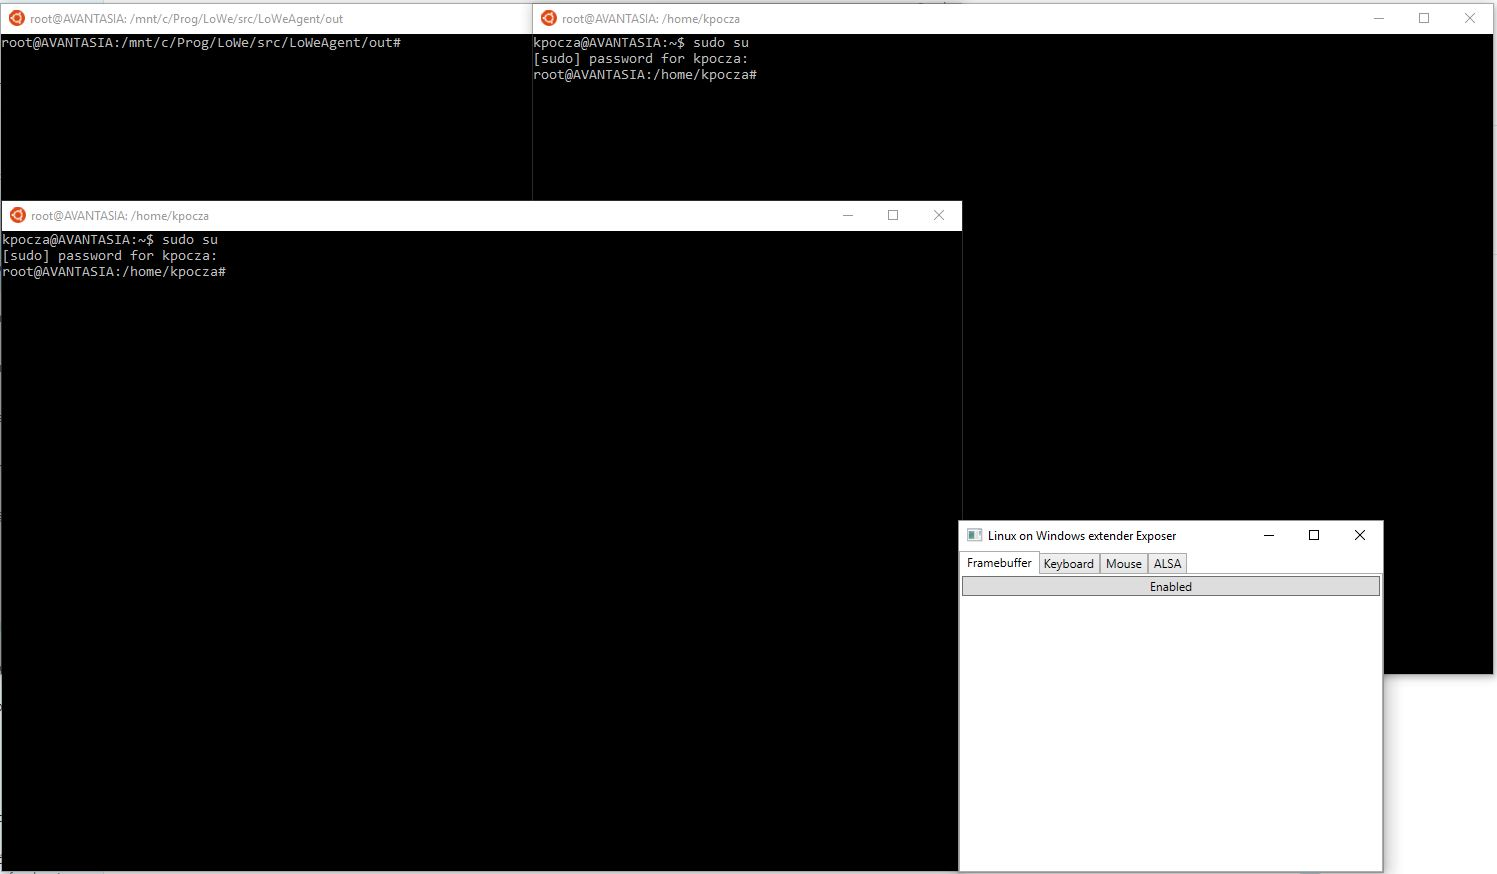
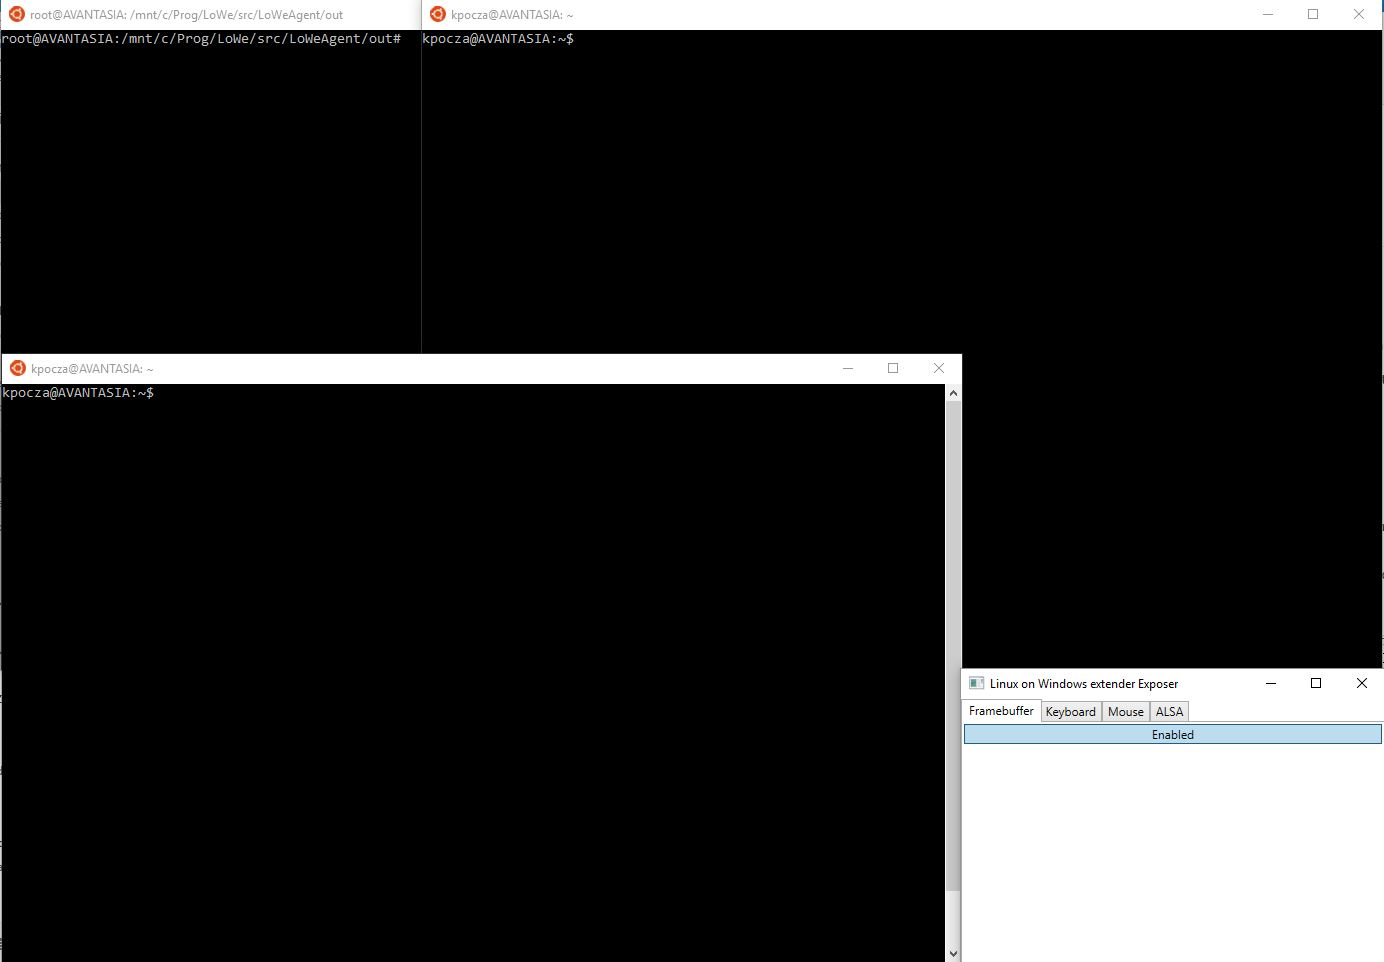
Documentation, UX, parameterization

Changed region(s): [[0.0, 0.0, 1.0, 1.0]]

diff --git a/src/LoWeAgent/ArgsParser.cpp b/src/LoWeAgent/ArgsParser.cpp
@@ -1,3 +1,4 @@
+#include <iostream>
 #include "ArgsParser.h"
 #include <algorithm>
 #include <getopt.h>
@@ -12,6 +13,7 @@ bool ArgsParser::Parse()
 {
 	struct option long_options[] =
 	{
+		{"outfile", required_argument, 0, 'o'},
 		{"loglevel", required_argument, 0, 'l'},
 		{"help", no_argument, 0, 'h'},
 		{"catchall", no_argument, 0, 'c'},
@@ -28,13 +30,19 @@ bool ArgsParser::Parse()
 	while(1)
 	{
 		int idx = 0;
-		int c = getopt_long_only(_argc, _args, "l:", long_options, &idx);
+		int c = getopt_long_only(_argc, _args, "o:l:", long_options, &idx);
 
 		if(c == -1)
 			break;
 
 		switch(c)
 		{
+			case 'o':
+			{
+				string logFilePath(optarg);
+				Log::SetLogFile(logFilePath);
+				break;
+			}
 			case 'l':
 			{
 				string logLevel(optarg);
@@ -53,15 +61,15 @@ bool ArgsParser::Parse()
 				}
 				break;
 			}
-			case 'h':
-			{
-				DisplayHelp();
-				return false;
-			}
 			case 'c':
 			{
 				_isCatchAll = true;
 				break;
+			}
+			case 'h':
+			{
+				DisplayHelp();
+				return false;
 			}
 			default:
 			{
@@ -103,8 +111,9 @@ bool ArgsParser::IsCatchAll()
 void ArgsParser::DisplayHelp() const
 {
 	cout << "Usage: " << endl;
-	cout << "   loweagent [-loglevel Debug|Info|Error] [-catchall] prog_to_attach" << endl << endl;
+	cout << "   loweagent [-o file.log] [-l Debug|Info|Error] [-c] [-h] program_mode" << endl << endl;
 	cout << "Options:" << endl << endl;
+	cout << "   -o, -outfile:     Send log messages to this file instread of the stdout" << endl;
 	cout << "   -l, -loglevel:    Set Debug, Info or Error loglevel. Default: Info" << endl;
 	cout << "   -c, -catchall:    Catch all syscalls that are not handled otherwise and provide log information" 
 		<< endl;

diff --git a/src/LoWeAgent/loweagent.cpp b/src/LoWeAgent/loweagent.cpp
@@ -1,4 +1,3 @@
-#include <iostream>
 #include "PidGuesser.h"
 #include "ConfigHandler.h"
 #include "DeviceHandlerFactory.h"
@@ -6,10 +5,10 @@
 #include "ProgRuntimeDispatcher.h"
 #include "Log.h"
 #include "ArgsParser.h"
-
-using namespace std;
+#include <iostream>
 
 LogLevel Log::_logLevel = LogLevel::Info;
+ostream *Log::_logout = &cout;
 
 int main(int argc, char **args) 
 {
@@ -58,19 +57,29 @@ int main(int argc, char **args)
 		return 1;
 	}
 
+	log.Info("Checking the availability of all devices...");	
 	if(!deviceProvisioner.CheckAvailability(app.devices))
 	{
 		log.Error("One or more devices are not available");
 		string fixupScript = deviceProvisioner.GetFixupScript();
-		if(fixupScript.size() > 5)
+		if(fixupScript.size() > 0)
 		{
-			log.Info("Dev file fixup script is the following");
-	 		cout << fixupScript << endl;
+			log.Info("Dev file fixup script is the following:\n", fixupScript);
 			log.Info("Executing script as root");
 			deviceProvisioner.ExecuteFixupScript();
-			log.Info("Script done. Please rerun loweagent.");
+
+			log.Info("Script done. Rechecking device availability...");
+			if(!deviceProvisioner.CheckAvailability(app.devices))
+			{
+				log.Error("Unable to recover. Exiting.");
+				return 1;
+			}
 		}
-		return 1;
+		else
+		{
+			log.Error("Unable to recover. Exiting.");
+			return 1;
+		}
 	}
 
 	log.Info("Waiting for process to start...");	

diff --git a/src/LoWeAgent/Log.h b/src/LoWeAgent/Log.h
@@ -1,6 +1,6 @@
 #pragma once
 
-#include <iostream>
+#include <fstream>
 #include <string>
 #include <sys/user.h>
 
@@ -30,6 +30,11 @@ public:
 	{
 		Log::_logLevel = logLevel;
 	}
+
+	static void SetLogFile(const string fileName)
+	{
+		_logout = new ofstream(fileName);
+	}
  
 	template<typename ...Args>
 	void Debug(const Args&... args) const
@@ -38,7 +43,7 @@ public:
 		{
 			Prefix("DEBUG");
 			Internal(args...);
-			cout << endl;
+			*_logout << endl;
 		}
 	}
  
@@ -49,7 +54,7 @@ public:
 		{
 			Prefix("INFO");
 			Internal(args...);
-			cout << endl;
+			*_logout << endl;
 		}
 	}
  
@@ -60,7 +65,7 @@ public:
 		{
 			Prefix("ERR");
 			Internal(args...);
-			cout << endl;
+			*_logout << endl;
 		}
 	}
  
@@ -69,25 +74,26 @@ private:
 	const pid_t _pid;
 	long _fd;
 	static LogLevel _logLevel;
+	static ostream *_logout;
 
 	void Prefix(const string& level) const
 	{
-		cout << "[" << level << "]";
+		*_logout << "[" << level << "]";
 		if(_pid!= -1)
 		{
-			cout << "[P " << _pid << "]";
+			*_logout << "[P " << _pid << "]";
 		}
 		if(_fd!= -1)
 		{
-			cout << "[FD " << _fd << "]";
+			*_logout << "[FD " << _fd << "]";
 		}
-		cout << "{" << _name << "}:";
+		*_logout << "{" << _name << "}:";
 	}
  
 	template<typename Arg>
 	void Internal(const Arg& arg) const
 	{
-		cout << " " << arg;
+		*_logout << " " << arg;
 	}
  
 	template<typename Arg, typename ...Args>

diff --git a/src/LoWeExposer/LoWeExposer/FrameBufferExposer.xaml.cs b/src/LoWeExposer/LoWeExposer/FrameBufferExposer.xaml.cs
@@ -59,10 +59,12 @@ namespace LoWeExposer
         protected override void OnRenderSizeChanged(SizeChangedInfo sizeInfo)
         {
             float aspect = (float)16 / 9;
+            double captionHeight = SystemParameters.WindowCaptionHeight;
+
             if (sizeInfo.WidthChanged)
-                Width = sizeInfo.NewSize.Height * aspect;
+                Width = (sizeInfo.NewSize.Height - captionHeight) * aspect;
             else
-                Height = sizeInfo.NewSize.Width / aspect;
+                Height = sizeInfo.NewSize.Width / aspect + captionHeight;
         }
 
         #endregion

diff --git a/docs/x.md b/docs/x.md
@@ -18,7 +18,9 @@ sudo apt install xserver-xorg-input-kbd
 sudo apt install wmaker
 ```
 
-Copy the 9-lowe.conf from the configs folder of the local git repository to /usr/share/X11/xorg.conf.d/9-lowe.conf.
+Copy the 9-lowe.conf from the configs folder of the local git repository to ```/usr/share/X11/xorg.conf.d/9-lowe.conf```.
+
+Install any additional packages, eg. xterm, firefox, etc.
 
 The content of the file should look like as follows:
 
@@ -31,48 +33,44 @@ The content of the file should look like as follows:
    - The second one will run the X server
    - The third one will run Window Maker the windowing system
 
-   All must switch to root via ```sudo su```.
-2. You have to start LoWeExposer, as well
+   The **first one** must **switch to root** via ```sudo su```. The reason is that X is a setuid root program so that the tracer should run as root, as well.
+2. You have to also start LoWeExposer
 
 ![whatweneed](img/x/02_whatweneed.jpg "Starting needed programs")
 
 3. loweagent is not a generic application yet, so it is prepared to support some predefined applications, like mplayer or x. Please refer to loweagent.conf.
 
-4. Enter ```./loweagent x``` command in the first Bash to execute LoWeAgent in X mode. It will detect if all devices are available under /dev. Of course not since /dev has only a minimal set of devices. LoWe will created them as root:
+4. Enter ```./loweagent x``` command in the first Bash to execute LoWeAgent in X mode. It will do the following actions:
+
+   1. Detect if any devices require coordination with LoWeExposer
+   2. Check if all regular files that mimic the original /dev file exist
+   3. If not then creates them (as root) and checks for their existence again 
 
    ![Creating devices](img/x/03_credevs.jpg "Creating devices")
 
-   
+   4. It will start waiting for the X to start.
+   5. The LoWeExposer will show the FrameBuffer window, moreover Keyboard and Mouse check will also take place.
 
-5. Run the same ```./loweagent x``` command again:
+5. In the second Bash window start ```X```  or ```xinit```:
 
-![Start listening](img/x/04_runagain.jpg "Start listening")
-
-It will start waiting for the X process to start.
-
-The Keyboard and Mouse tabs of LoWeExposer will confirm that socket check completed and the Framebuffer Exposer window will popup.
-
-6. In the second Bash window start ```X```  or ```xinit```:
-
-![X.Org running](img/x/05_startx.jpg "X.Org running")
+![X.Org running](img/x/04_startx.jpg "X.Org running")
 
 It can happen that loweagent doesn't catch the X process. In this case X needs to be rerun (sometimes several times). In the future loweagent will have the ability to start the application and don't try to attach to a process that has been just started.
 
-7. Start Window Maker
+6. Start Window Maker
 
-   The DISPLAY env var needs to be exported and the wmaker process is to be started:
+The DISPLAY env var needs to be exported and the wmaker process is to be started:
 
-   ```
-   export DISPLAY=:0
-   wmaker
-   ```
-
+```
+export DISPLAY=:0
+wmaker
+```
 Like this:
 
-![start wmaker](img/x/06_startwmaker.jpg "Starting Window Maker")
+![start wmaker](img/x/05_startwmaker.jpg "Starting Window Maker")
 
 8. Run X programs in wmaker
 
    The actual GUI is presented in the Framebuffer Exposer window. If it has focus, the keyboard input is forwarded to X. To capture (and release) mouse hold the Ctrl+Alt keys and click the left mouse button on top of the mouse cursor presented in the above mentioned window.
 
-![run progs](img/x/07_wmakerrunning.jpg "Run graphical apps")
+![run progs](img/x/06_wmakerrunning.jpg "Run graphical apps")

diff --git a/docs/mplayer.md b/docs/mplayer.md
@@ -11,34 +11,33 @@ Please follow these steps:
 
 3. loweagent is not a generic application yet, so it is prepared to support some predefined applications, like mplayer. Please refer to loweagent.conf.
 
-4. Enter ```./loweagent mplayer``` command to execute LoWeAgent in mplayer mode. It will detect if all devices are available under /dev. Of course not since /dev has only a minimal set of devices. LoWe will created them as root:
+4. Enter ```./loweagent mplayer``` command to execute LoWeAgent in mplayer mode. It will do the following actions:
+
+   1. Detect if any devices require coordination with LoWeExposer
+   2. Check if all regular files that mimic the original /dev file exist
+   3. If not then creates them (as root) and checks for their existence again 
 
    ![Creating devices](img/mplayer/02_credevs.jpg "Creating devices")
 
-   (these devices will disappear when the lxss session ends)
+   4. It will start waiting for the mplayer process to start.
+   5. The ALSA tab of LoWeExposer will show the following messages:
 
-5. Run the same ```./loweagent mplayer``` command again:
+![ALSA tab](img/mplayer/03_alsacheck.jpg "ALSA check")
 
-![Start listening](img/mplayer/03_runagain.jpg "Start listening")
+		Moreover the Framebuffer Exposer window will popup.
 
-It will start waiting for the mplayer process to start.
+The devices created by LoWeAgent will disappear when the lxss session ends. They have to be recreated next time.
 
-And the ALSA tab of LoWeExposer will show the following messages:
-
-![ALSA tab](img/mplayer/04_alsacheck.jpg "ALSA check")
-
-Moreover the Framebuffer Exposer window will popup.
-
-6. In the other Bash window start mplayer with some video or audio like 
+5. In the other Bash window start mplayer with some video or audio like 
 
 ```mplayer my_favourite_video.mkv  ```
 
-![Mplayer running](img/mplayer/05_mplayer.jpg "Mplayer running")
+![Mplayer running](img/mplayer/04_mplayer.jpg "Mplayer running")
 
 It can happen that loweagent doesn't catch the mplayer process. In this case mplayer needs to be rerun (sometimes several times). In the future loweagent will have the ability to start the application and don't try to attach to a process that has been just started.
 
-7. Playing video and sound:
+6. Playing video and sound:
 
-![Mplayer playing](img/mplayer/06_running.jpg "Mplayer playing")
+![Mplayer playing](img/mplayer/05_running.jpg "Mplayer playing")
 
 

diff --git a/docs/building.md b/docs/building.md
@@ -43,6 +43,21 @@ To run LoWeAgent libconfig package needs to be installed on top of the defaults.
 
 The loweagent application can be run then from the out directory.
 
+Command line options are as follows:
+
+```
+$ ./loweagent
+Usage:
+   loweagent [-l Debug|Info|Error] [-o file.log] [-c] [-h] program_mode
+
+Options:
+
+   -l, -loglevel:    Set Debug, Info or Error loglevel. Default: Info
+   -o, -outfile:     Send log messages to this file instread of the stdout
+   -c, -catchall:    Catch all syscalls that are not handled otherwise and provide log information
+   -h, -help:        Display this help
+```
+
 # LoWeExposer
 
 LoWeExposer in a Windows WPF executable written in C# targetting .NET Framework 4.6+.
